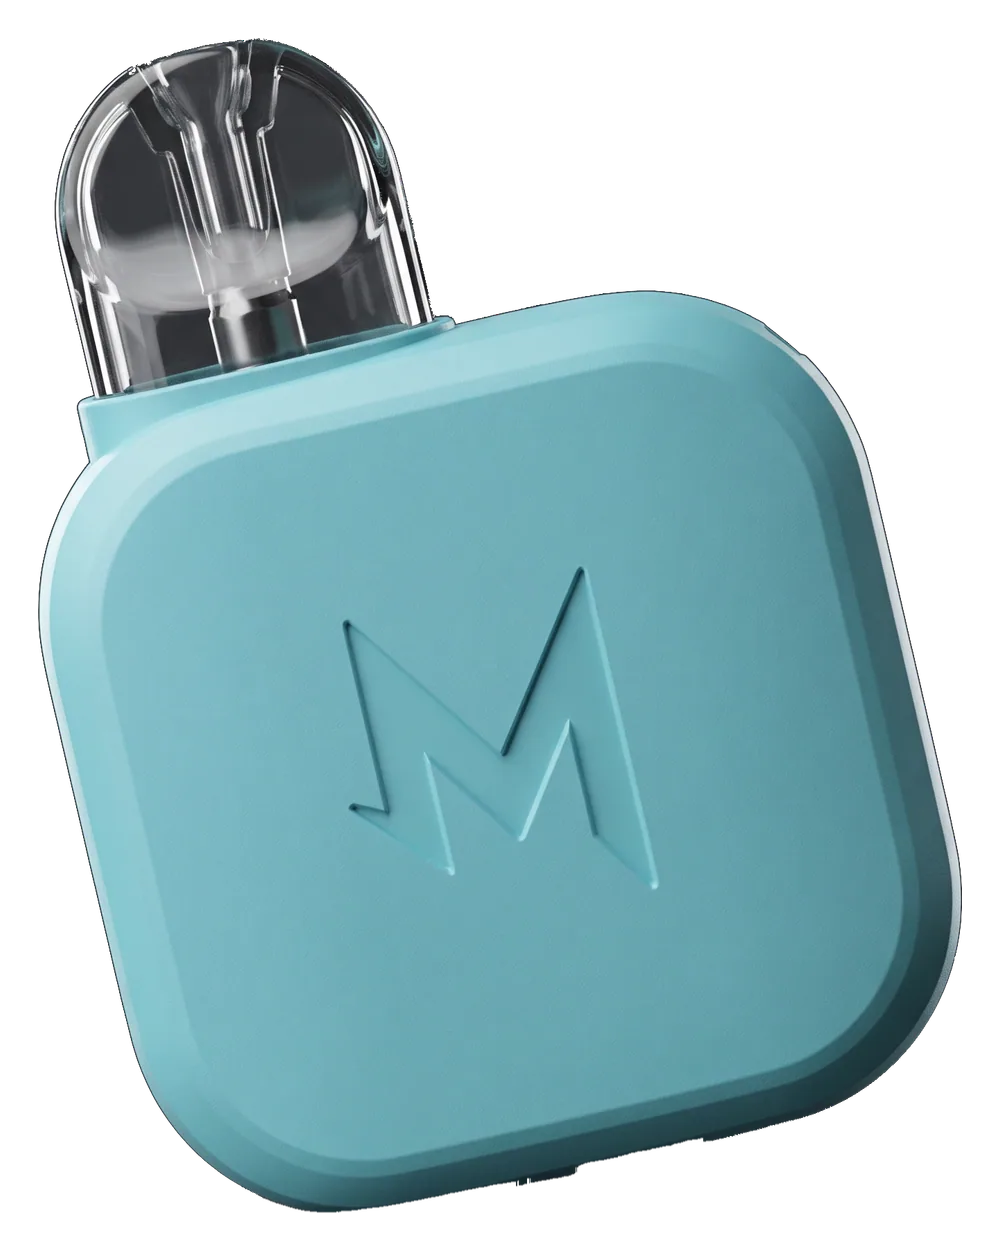
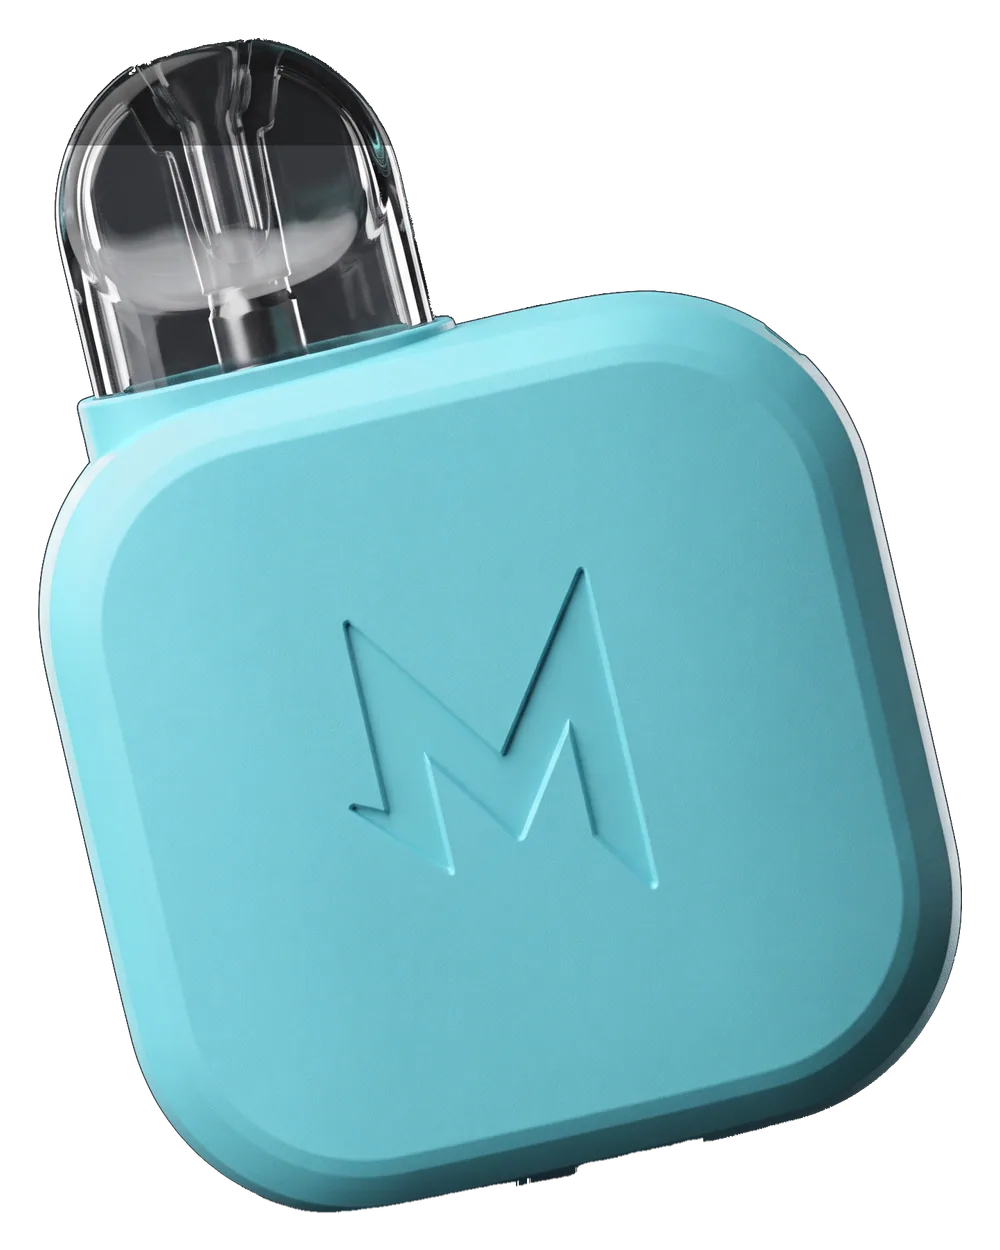
image(zero-nano): card teal + smoky pod matched to SALTHUB's photo (checker #512 round 1)

diff --git a/src/data/products/salthub.ts b/src/data/products/salthub.ts
@@ -857,7 +857,7 @@ export const salthubProducts: Product[] = [
         kind: "official-photo",
         role: "card",
         // Image-sitewide round 01/10: the old SALTHUB photo (card.webp, 443x567) was below the sharpness standard —
-        // card-v2 = the night render in the same 3/4 pose, teal matched to that photo (_incoming/image-sitewide/b-voopoo/zero-nano.js).
+        // card-v3 (round img-1610 16/10) = a fresh studio render of that photo, teal and smoky pod matched to it (card-v2 left a halo on dark).
         src: "/assets/products/zero-nano/card-v3.webp",
         alt: "SALTHUB Zero Nano, teal compact device, isolated product shot",
         angle: "3/4, isolated — OKami24 Higgsfield remake (IMAGE_SPEC §0 item 7) from SALTHUB's own photo",
